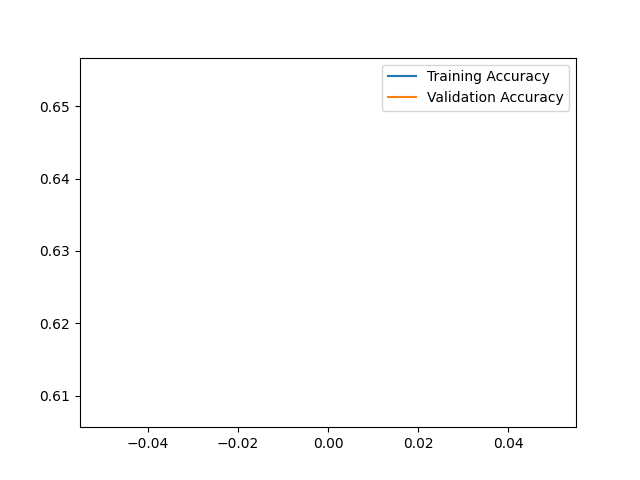
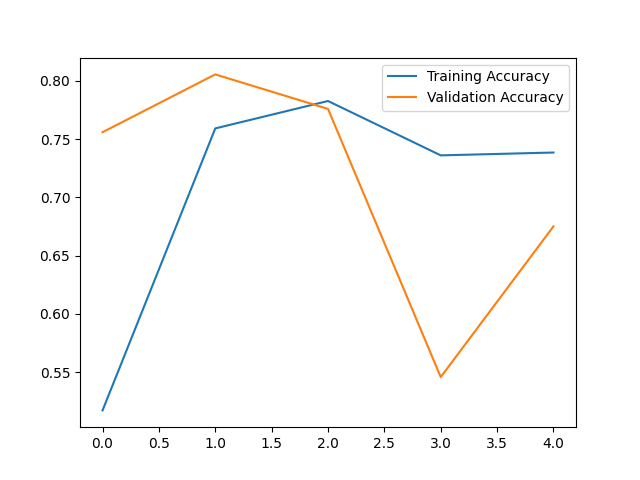
new model tests

diff --git a/dataloader.py b/dataloader.py
@@ -123,16 +123,16 @@ new_label_df = pd.read_excel(f'{configs.DATA_DIR}excel_predicciones.xlsx', sheet
 new_label_df['Path'] = new_label_df['Identifier'].apply(utils.ajust_path)
 
 # Create the DataFrame for the dataset
-data_df = new_label_df[['ANY Vasoespasm ','Path']]
-data_df = data_df.rename(columns={'ANY Vasoespasm ':'ANY_Vasospasm'})
+data_df = new_label_df[[configs.target_output,'Path']]
+# data_df = data_df.rename(columns={'ANY Vasoespasm ':'ANY_Vasospasm'})
 
 # Remove unexistant file/ path from data_df : 
-count_0 = len(data_df[data_df["ANY_Vasospasm"] == 0])
-count_1 = len(data_df[data_df["ANY_Vasospasm"] == 1])
+count_0 = len(data_df[data_df[configs.target_output] == 0])
+count_1 = len(data_df[data_df[configs.target_output] == 1])
 print("data_df before removing wrong paths : ","count 1 : ", count_1, "count 0 : ", count_0)
 data_df = data_df[data_df['Path'].apply(os.path.exists)]
-count_0 = len(data_df[data_df["ANY_Vasospasm"] == 0])
-count_1 = len(data_df[data_df["ANY_Vasospasm"] == 1])
+count_0 = len(data_df[data_df[configs.target_output] == 0])
+count_1 = len(data_df[data_df[configs.target_output] == 1])
 print("data_df after : ","count 1 : ", count_1, "count 0 : ", count_0)
 
 # Add dicom informations
@@ -158,7 +158,7 @@ data_df["post1_SOPInstanceUID"] = data_df.groupby(["PatientID", "SeriesInstanceU
 patiente = configs.patient #index of {patiente} in the path
 patient_df = data_df.copy()
 patient_df["HSA"] = patient_df["Path"].apply(lambda x: x.split('/')[patiente])
-patient_df = patient_df.groupby("HSA")["ANY_Vasospasm"].max().reset_index()  # patient's label = 1 if at least one image is positive
+patient_df = patient_df.groupby("HSA")[configs.target_output].max().reset_index()  # patient's label = 1 if at least one image is positive
 
 
 """DATA FRAME META DATA  (hospital_data_1)"""
@@ -179,7 +179,7 @@ data_df = pd.merge(data_df, metadata_df, on='HSA', how='left')
 # new_label_df['Path'] = new_label_df['Identifier'].apply(utils.ajust_path_data2)
 
 # # Create the DataFrame for the dataset
-# data2_df = new_label_df[['ANY Vasoespasm ','Path']]
+# data2_df = new_label_df[[configs.target_output,'Path']]
 # data2_df = data2_df.rename(columns={'ANY Vasoespasm ':'ANY_Vasospasm'})
 
 # # Remove unexistant file/ path from data_df : 
@@ -211,7 +211,7 @@ def create_dataloader():
     train_patients, val_test_patients = train_test_split(
         patient_df,
         train_size=configs.split_train,
-        stratify=patient_df["ANY_Vasospasm"],
+        stratify=patient_df[configs.target_output],
         random_state=configs.SEED
     )
     test_size = configs.split_test/(configs.split_valid + configs.split_test)
@@ -219,16 +219,16 @@ def create_dataloader():
     valid_patients, test_patients = train_test_split(
         val_test_patients,
         test_size=test_size,
-        stratify=val_test_patients["ANY_Vasospasm"],
+        stratify=val_test_patients[configs.target_output],
         random_state=configs.SEED
     )
 
     print("Train patient values : ")
-    print(train_patients["ANY_Vasospasm"].value_counts())
+    print(train_patients[configs.target_output].value_counts())
     print("Valid patient values : ")
-    print(valid_patients["ANY_Vasospasm"].value_counts())
+    print(valid_patients[configs.target_output].value_counts())
     print("Test patient values : ")
-    print(test_patients["ANY_Vasospasm"].value_counts())
+    print(test_patients[configs.target_output].value_counts())
 
     # Create DataFrames
     train_df = data_df[data_df['Path'].apply(lambda x: x.split('/')[patiente] in train_patients["HSA"].values)]
@@ -249,15 +249,15 @@ def create_dataloader():
     # train_oversample_df = pd.concat([train_df, vasospasm_df])
     # train_df = train_oversample_df
 
-    count_0 = len(train_df[train_df["ANY_Vasospasm"] == 0])
-    count_1 = len(train_df[train_df["ANY_Vasospasm"] == 1])
+    count_0 = len(train_df[train_df[configs.target_output] == 0])
+    count_1 = len(train_df[train_df[configs.target_output] == 1])
     print("count 1 train : ", count_1, "count 0 train : ", count_0)
 
 
     # Labels 'ANY_Vasospasm'
-    train_labels = train_df["ANY_Vasospasm"]
-    valid_labels = valid_df["ANY_Vasospasm"]
-    test_labels = test_df["ANY_Vasospasm"]
+    train_labels = train_df[configs.target_output]
+    valid_labels = valid_df[configs.target_output]
+    test_labels = test_df[configs.target_output]
 
     # # ----------------------------------------Method 1 ------------------------------------------------
     # # Train Dataset

diff --git a/main.py b/main.py
@@ -29,7 +29,7 @@ print("torch.cuda.get_device_name(0)", torch.cuda.get_device_name(0))
 # model = densenet169 or densenet121 or se_resnext50_32x4d (pretrained on medical for weights from 3rd contest)
 # pretrained = "imagenet"" for pretraining on ImageNet / "medical" for pretraining on Medical Images / False for no training
 # classifier = model.Classifier or model.Classifier_Many_Layers
-model = get_model(prob=0.5, image_backbone="se_resnext50_32x4d", pretrained = "medical", classifier=Classifier, metadata = True)
+model = get_model(prob=0.5, image_backbone="se_resnext50_32x4d", pretrained = "medical", classifier=Classifier_Many_Layers, metadata = True)
 # model = get_model_onnx(classifier_class=Classifier, in_features=2664, prob=0.5)
 my_model=Model_extented(model, epochs=5, lr=1e-3)
 
@@ -87,6 +87,8 @@ print("Auc-roc score : ",my_model.eval_performance(all_labels, all_probs))
 
 # Calibration eval
 print(my_model.calibration_plot(all_labels, all_probs))
+
+print(f"Output : {configs.target_output}")
 
 
 

diff --git a/main_iterations.py b/main_iterations.py
@@ -60,6 +60,9 @@ for k in range(nb_iterations):
 avg_roc_auc = np.mean(auc_values)
 print("Average ROC AUC:", avg_roc_auc)
 
+max_roc_auc = np.max(auc_values)
+print("Max ROC AUC:", max_roc_auc)
+
 avg_train_accuracy = np.mean(training_accuracy_values)
 avg_valid_accuracy = np.mean(validation_accuracy_values)
 print(f"Average training accuracy : {avg_train_accuracy}, Average validation accuracy : {avg_valid_accuracy}")
@@ -70,7 +73,7 @@ plt.xlim([0.0, 1.0])
 plt.ylim([0.0, 1.05])
 plt.xlabel('False Positive Rate')
 plt.ylabel('True Positive Rate')
-plt.title(f'Receiver Operating Characteristic Curve \n Average ROC AUC: {avg_roc_auc}')
+plt.title(f'Receiver Operating Characteristic Curve \n Avg ROC AUC: {avg_roc_auc:.2f}  Max ROC AUC: {max_roc_auc:.2f} ')
 if nb_iterations<10 :
     plt.legend(loc="lower right")
 plt.tight_layout()

diff --git a/configs.py b/configs.py
@@ -20,8 +20,9 @@ patient_data2 = 8
 DATA_DIR = '/export/usuarios01/lmurat/Datos/Predictions-SAH/Data/'
 DIR = '/export/usuarios01/lmurat/Datos/Predictions-SAH/'
 
-# Output (Resangrado, VasoespasmoA, ANY Vasoespasmo, Hidrocefalia, Infarto, Crisis, DiasVM, DiasUCI, mRSalta, mRS1año, Exitus)
-target_output = 'VasoespasmoA'
+# Output ('Resangrado', 'VasoespasmoA', 'ANY Vasoespasm ', 'Hidrocefalia', 'Infarto', 'Crisis', 'DiasVM', 'DiasUCI', 
+# 'mRSalta', 'mRS1año', 'Exitus')
+target_output = 'Exitus'
 
 # Ro run on gpu if available
 import torch

diff --git a/train.py b/train.py
@@ -164,7 +164,7 @@ class Model_extented(nn.Module):
                 random_index = np.random.randint(0, len(df))
 
                 img_path = df['Path'].iloc[random_index]
-                label = df['ANY_Vasospasm'].iloc[random_index]
+                label = df[configs.target_output].iloc[random_index]
 
                 img = utils._read_new(img_path)
 
